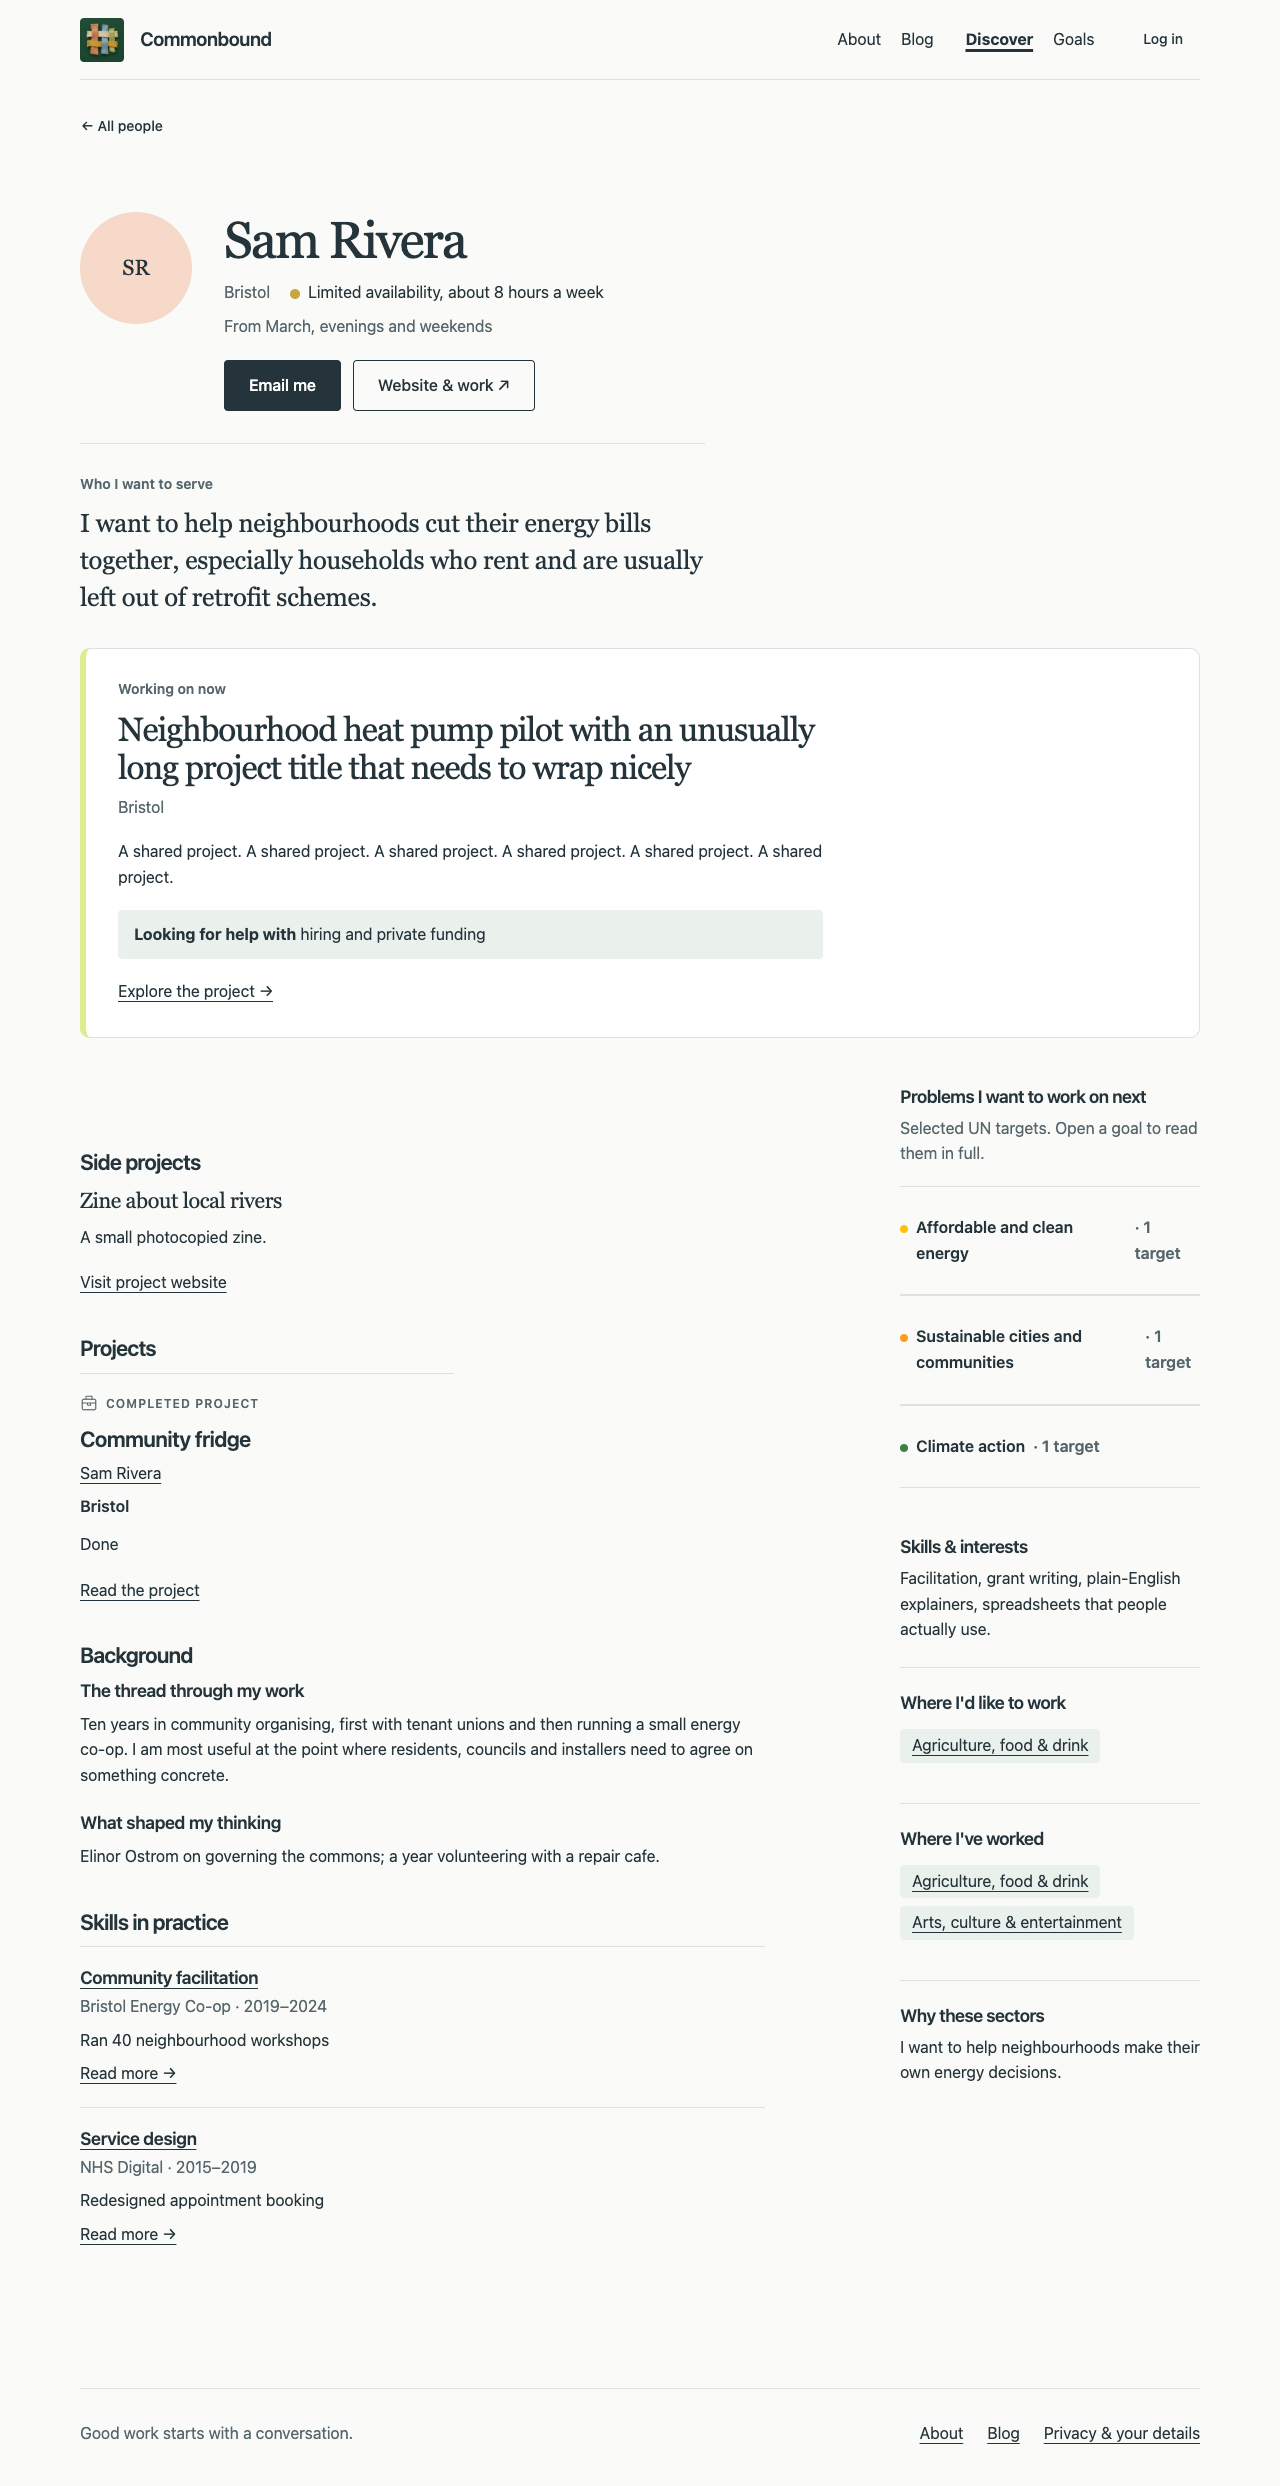
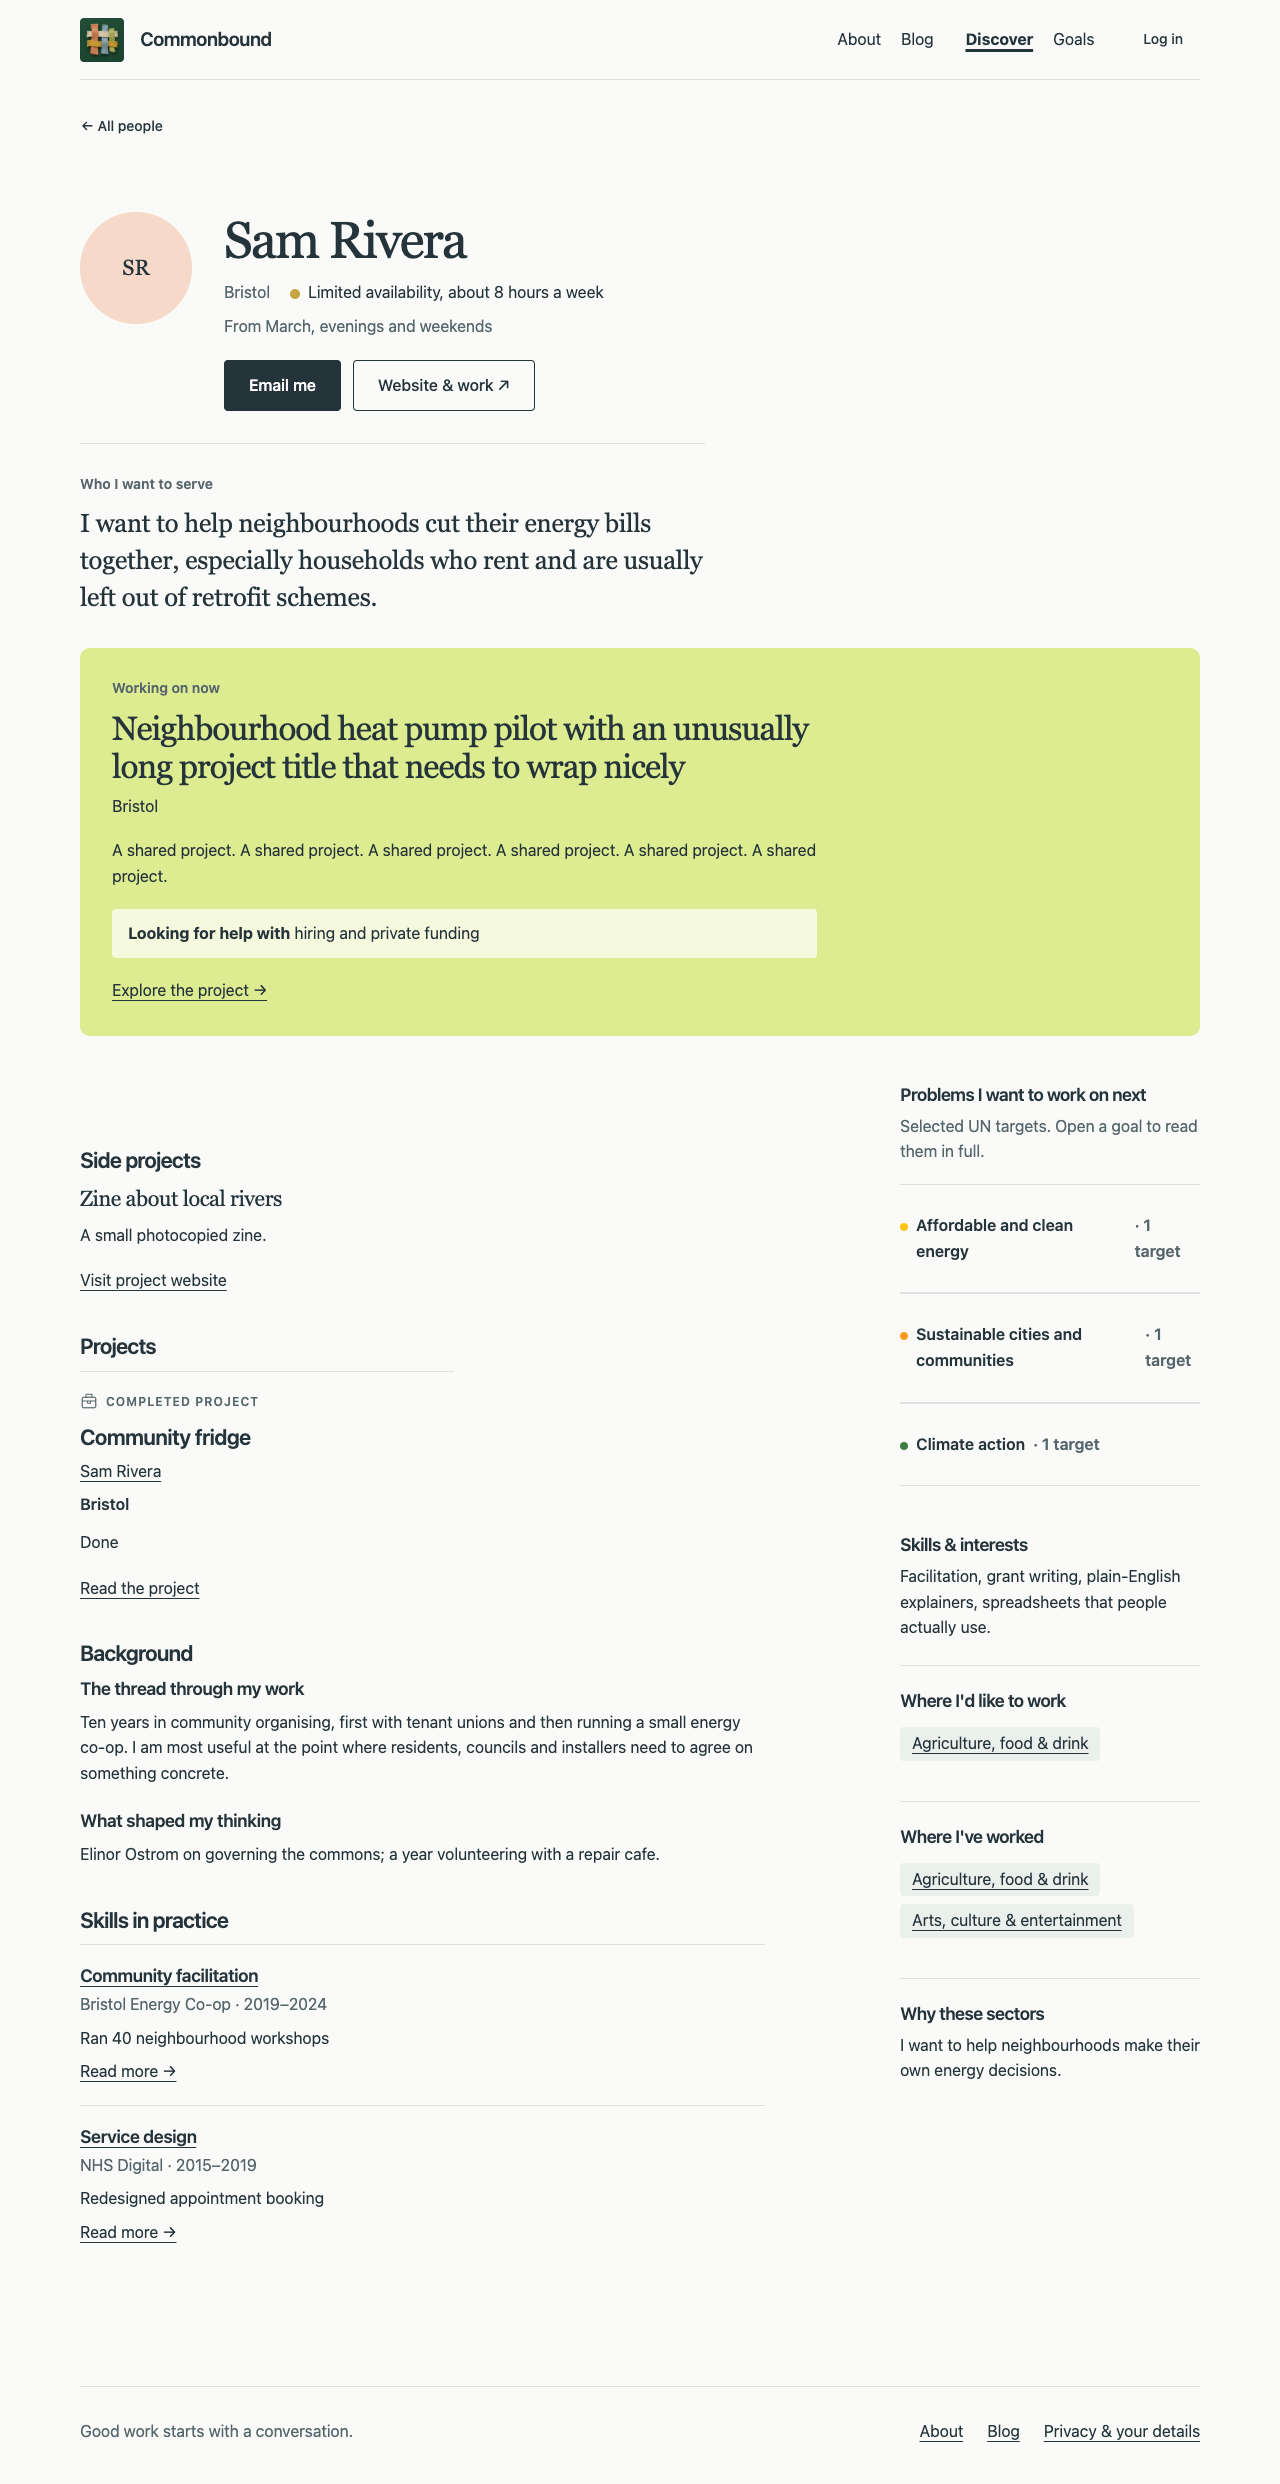
Make current work a lime tile; tidy goals aside and completed project card

diff --git a/app/assets/stylesheets/application.css b/app/assets/stylesheets/application.css
@@ -1069,13 +1069,14 @@ input[type=file] { max-width: 100%; font-size: var(--text-base); }
 .member-intro h2 { font-family: inherit; font-size: var(--text-sm); font-weight: 600; letter-spacing: 0; color: var(--muted); margin-bottom: var(--space-3); }
 .member-intro p { font-family: Georgia, "Times New Roman", serif; font-size: var(--text-lead); line-height: 1.45; letter-spacing: -.01em; overflow-wrap: anywhere; }
 .member-intro p:last-child { margin-bottom: 0; }
-.member-current { margin: 0 0 var(--space-9); padding: var(--space-7); background: var(--field); border: 1px solid var(--line); border-left: 6px solid var(--dashboard-lime); border-radius: var(--dashboard-radius); }
+.member-current { margin: 0 0 var(--space-9); padding: var(--space-7); background: var(--dashboard-lime); border: 0; border-radius: var(--dashboard-radius); }
+.member-current > h2, .member-current .small-note { color: var(--ink); }
 .member-current > h2 { font-family: inherit; font-size: var(--text-sm); font-weight: 600; letter-spacing: 0; color: var(--muted); margin-bottom: var(--space-3); }
 .member-current h3 { font-family: Georgia, "Times New Roman", serif; font-weight: 400; font-size: var(--heading-2); letter-spacing: -.03em; line-height: 1.15; margin-bottom: var(--space-2); overflow-wrap: anywhere; }
 .member-current h3 a { color: var(--ink); text-decoration: none; }
 .member-current h3 a:hover { text-decoration: underline; }
 .member-current-description { max-width: 70ch; overflow-wrap: anywhere; }
-.member-current-help { background: var(--wash); border-radius: var(--radius); padding: var(--space-3) var(--space-4); max-width: 70ch; }
+.member-current-help { background: color-mix(in srgb, var(--field) 70%, transparent); border-radius: var(--radius); padding: var(--space-3) var(--space-4); max-width: 70ch; }
 .member-current-actions { display: flex; flex-wrap: wrap; gap: var(--space-3) var(--space-6); margin: var(--space-5) 0 0; }
 .member-columns { display: grid; grid-template-columns: minmax(0, 1fr) minmax(240px, 300px); gap: var(--space-9); align-items: start; }
 .member-main > .profile-section:first-child, .member-aside > .profile-section:first-child { padding-top: 0; margin-top: 0; }
